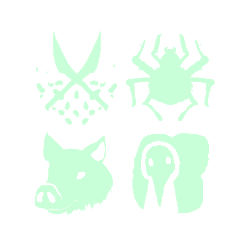
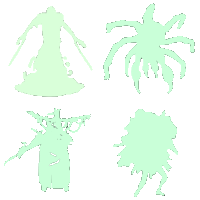
update marker boss

diff --git a/src/containers/map/markerBoss/style.css b/src/containers/map/markerBoss/style.css
@@ -8,8 +8,8 @@
   height: 50px !important;
   margin-left: -25px !important;
   margin-top: -25px !important;
-  background-size: 50px;
-  background-position: 1px 1px;
+  background-size: 40px;
+  background-position: 5px 5px;
   background-image: url(../../../assets/markers/boss-all.png);
 }
 
@@ -26,6 +26,18 @@
   margin-top: -20px !important;
   background-size: 38px;
   background-position: 2px 9px;
+}
+
+.marker-base.marker-boss-abs,
+.marker-base.marker-boss-abh,
+.marker-base.marker-boss-ash,
+.marker-base.marker-boss-bsh {
+  width: 40px !important;
+  height: 40px !important;
+  margin-left: -20px !important;
+  margin-top: -20px !important;
+  background-size: 38px;
+  background-position: 2px 1px;
 }
 
 .marker-base.marker-boss-as {
@@ -54,6 +66,22 @@
 
 .marker-base.marker-boss-hb {
   background-image: url(../../../assets/markers/boss-hb.png);
+}
+
+.marker-base.marker-boss-abs {
+  background-image: url(../../../assets/markers/boss-abs.png);
+}
+
+.marker-base.marker-boss-abh {
+  background-image: url(../../../assets/markers/boss-abh.png);
+}
+
+.marker-base.marker-boss-ash {
+  background-image: url(../../../assets/markers/boss-ash.png);
+}
+
+.marker-base.marker-boss-bsh {
+  background-image: url(../../../assets/markers/boss-bsh.png);
 }
 
 .marker-base.marker-boss-a,

diff --git a/src/store/filter/state.ts b/src/store/filter/state.ts
@@ -9,7 +9,7 @@ export interface FiltersState {
   types: typesMarker;
   extraTypes: typesMarker;
   polygonTypes: typesMarker;
-  polylineTypes: string[];
+  // polylineTypes: string[];
 }
 
 const filters = getUrlData().search.filters as string[];
@@ -30,6 +30,10 @@ export const initialState: FiltersState = {
       'boss-ab',
       'boss-as',
       'boss-bs',
+      'boss-abs',
+      'boss-abh',
+      'boss-ash',
+      'boss-bsh',
       'boss-all',
     ],
     'spawn-player': ['spawn-player'],
@@ -58,8 +62,8 @@ export const initialState: FiltersState = {
       'tower-h',
     ],
     aviary: ['aviary', 'aviary-d', 'aviary-c'],
-    clue: ['clue'],
-    cash: ['cash'],
+    // clue: ['clue'],
+    // cash: ['cash'],
   },
 
   // типы для особых маркеров
@@ -71,5 +75,5 @@ export const initialState: FiltersState = {
   },
 
   // типы для линий
-  polylineTypes: ['water-low'],
+  // polylineTypes: ['water-low'],
 };

diff --git a/src/store/filter/selectors.ts b/src/store/filter/selectors.ts
@@ -3,6 +3,6 @@ import type { RootState } from '../index';
 export const getFilters = (state: RootState) => state.filters;
 
 export const selectMarkerFilters = (state: RootState) => Object.keys(getFilters(state).types);
-export const selectCompoundFilters = () => ['label', 'zone', 'water-low'];
+export const selectCompoundFilters = () => ['label', 'zone'];
 
 export const selectViewMarkerFilters = (state: RootState) => getFilters(state).view.filters;
